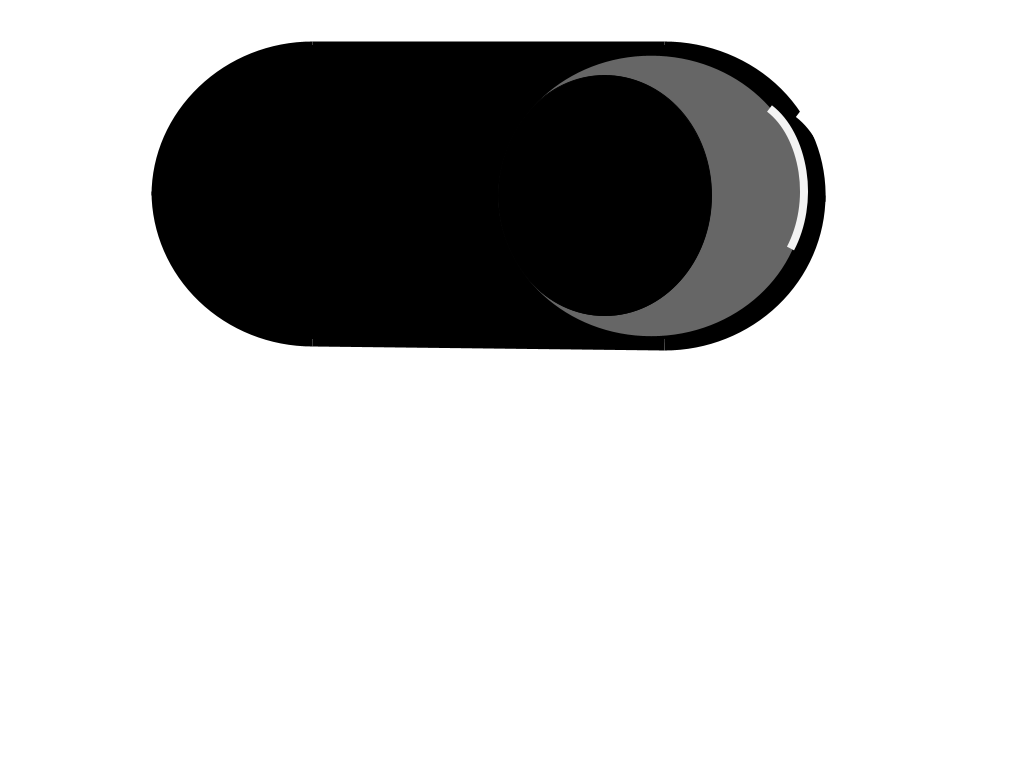
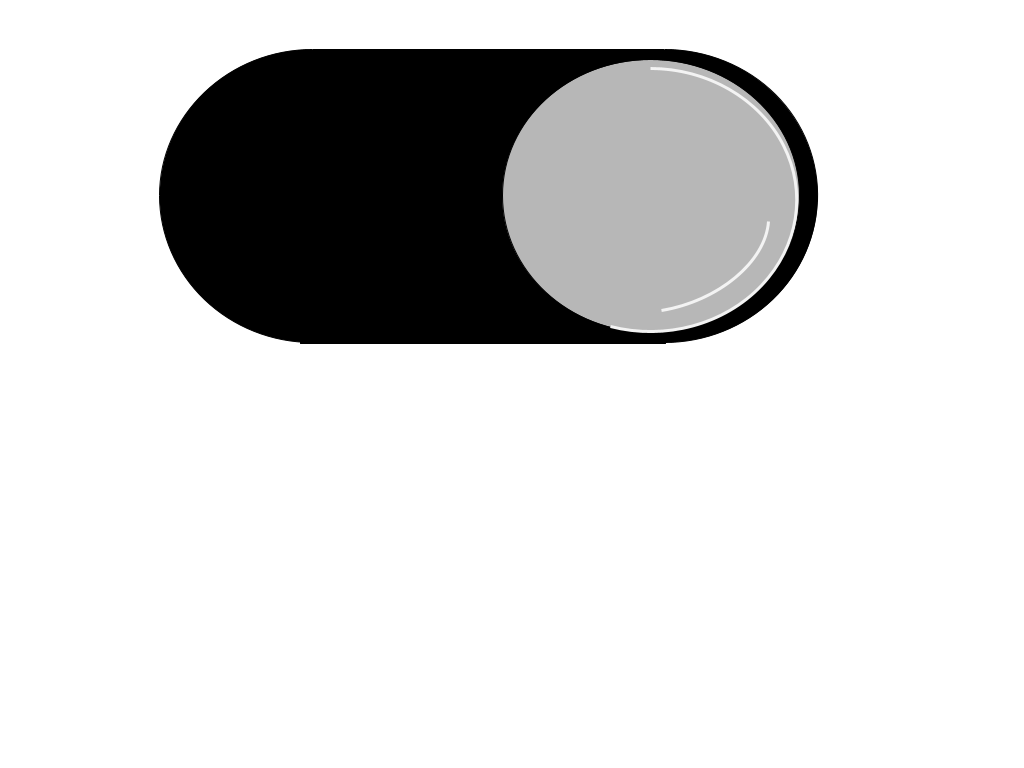
Add files via upload

diff --git a/index.html b/index.html
@@ -1,9 +1,12 @@
 <!DOCTYPE html>
 <html>
-<body style="background-image: url('ImagemFundo.png'); background-size: cover;">
+
+<body style="background-image: url('ImagemFundo.png'); background-size: cover; background-repeat: no-repeat;">
 
 <table border="1" style="margin: auto;">
+
     <tr>
+
         <td style="width: 200px; height: 200px;">
             <img src="logo.png" style="width: 200px; height: 200px">
         </td>
@@ -11,34 +14,40 @@
         <td style="width: 500px; height: 200px;">
             <video src="video.mp4" width="500px" loop controls autoplay muted></video>
         </td>
+
     </tr>
 
+
     <tr>
+
         <td style="width: 200px; height: 500px;">
 
             <!-- BOTÃO 1 -->
-            <a href="#" onclick="x.innerHTML='<img src=\'TextoUm.png\'>'">
+            <a href="#" onclick="document.getElementById('x').innerHTML='<img src=\'TextoUm.png\'>'; return false;">
                 <img src="imagesnaobotao.jpg">
             </a>
 
             <br><br>
+
 
             <!-- BOTÃO 2 -->
-            <a href="#" onclick="x.innerHTML='<img src=\'imagemDois.png\'>'">
+            <a href="#" onclick="document.getElementById('x').innerHTML='<img src=\'imagemDois.png\'>'; return false;">
                 <img src="imagesnaobotao.jpg">
             </a>
 
             <br><br>
+
 
             <!-- BOTÃO 3 -->
-            <a href="#" onclick="mostrarEstrelas()">
+            <a href="#" onclick="mostrarEstrelas(); return false;">
                 <img src="imagesnaobotao.jpg">
             </a>
 
             <br><br>
 
+
             <!-- BOTÃO 4 -->
-            <a href="#" onclick="x.innerHTML='<img src=\'imagemBotao.png\' onclick=\'trocarTema(this)\'> '">
+            <a href="#" onclick="mostrarInterruptor(); return false;">
                 <img src="imagesnaobotao.jpg">
             </a>
 
@@ -46,7 +55,8 @@
 
         </td>
 
-        <!-- CÉLULA ONDE APARECE O CONTEÚDO -->
+
+        <!-- CÉLULA DO CONTEÚDO -->
         <td id="x">
         </td>
 
@@ -57,13 +67,23 @@
 
 <script>
 
+
+/* BOTÃO 3 */
+
 function mostrarEstrelas() {
 
-    x.innerHTML = `
+    document.getElementById("x").innerHTML = `
+    
         <div id="ceu"
-        style="width: 500px; height: 500px; background-color: black; position: relative;"
+        style="
+        width: 500px;
+        height: 500px;
+        background-color: black;
+        position: relative;
+        "
         onclick="criarEstrela(event)">
         </div>
+    
     `;
 
 }
@@ -78,6 +98,7 @@ function criarEstrela(event) {
     estrela.style.position = "absolute";
 
     estrela.style.left = event.offsetX + "px";
+
     estrela.style.top = event.offsetY + "px";
 
     estrela.style.color = "white";
@@ -85,6 +106,23 @@ function criarEstrela(event) {
     estrela.style.fontSize = (Math.random() * 5 + 5) + "px";
 
     document.getElementById("ceu").appendChild(estrela);
+
+}
+
+
+/* BOTÃO 4 */
+
+function mostrarInterruptor() {
+
+    document.getElementById("x").innerHTML = `
+    
+        <img 
+        src="imagemBotao.png" 
+        width="80"
+        onclick="trocarTema(this)"
+        >
+    
+    `;
 
 }
 
